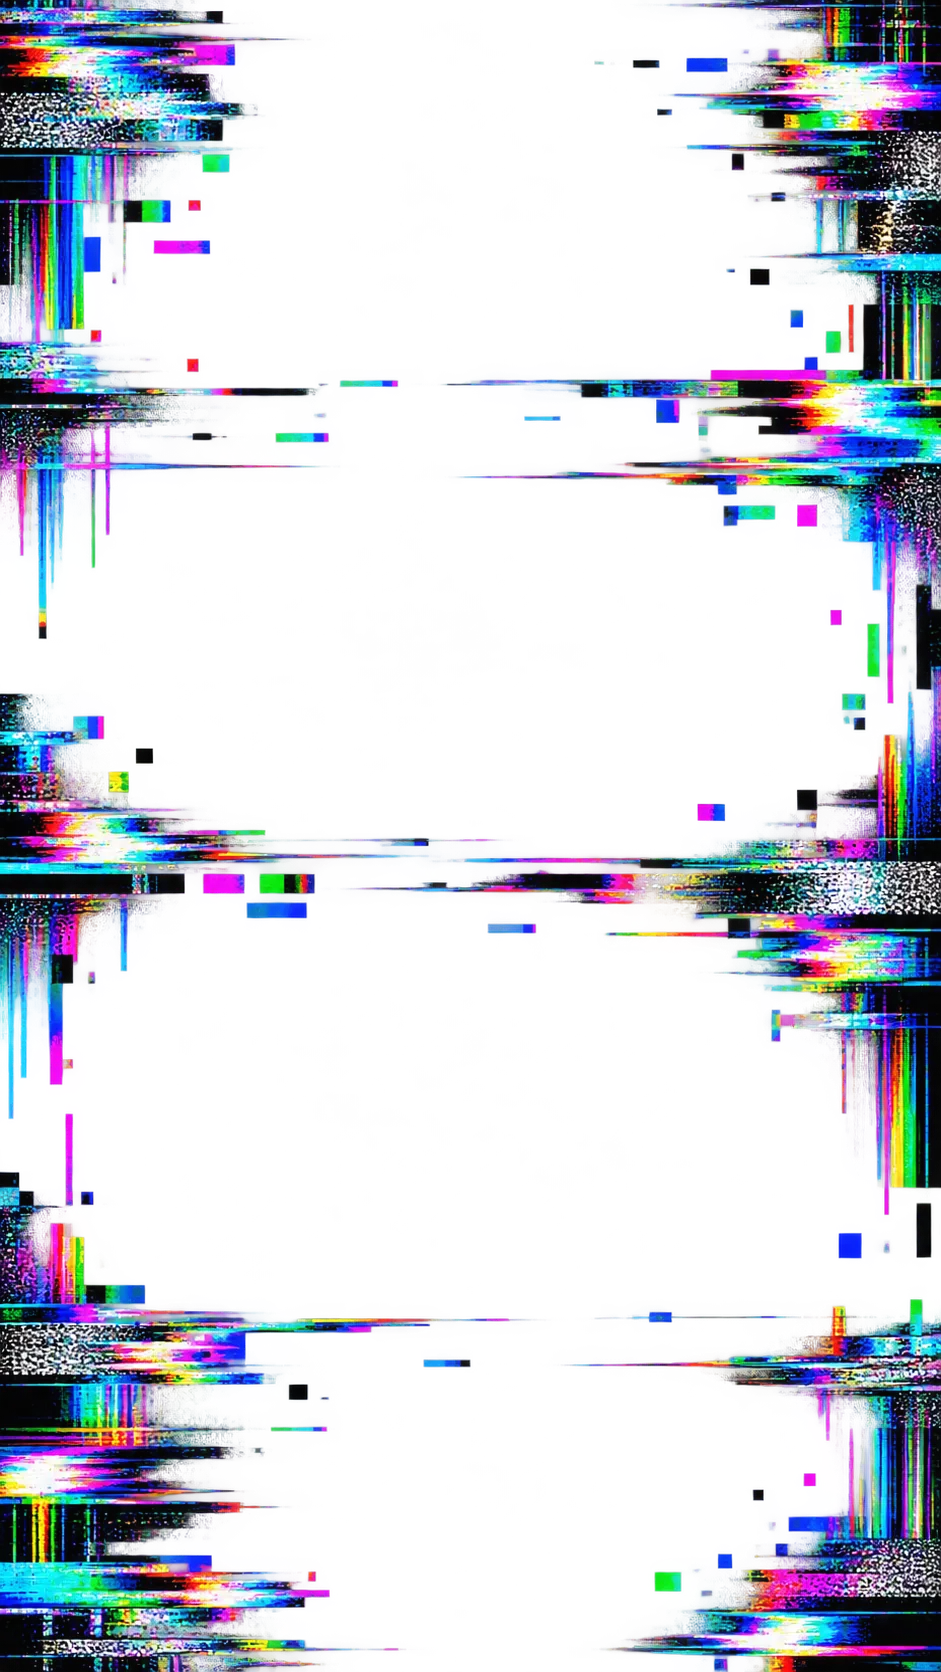
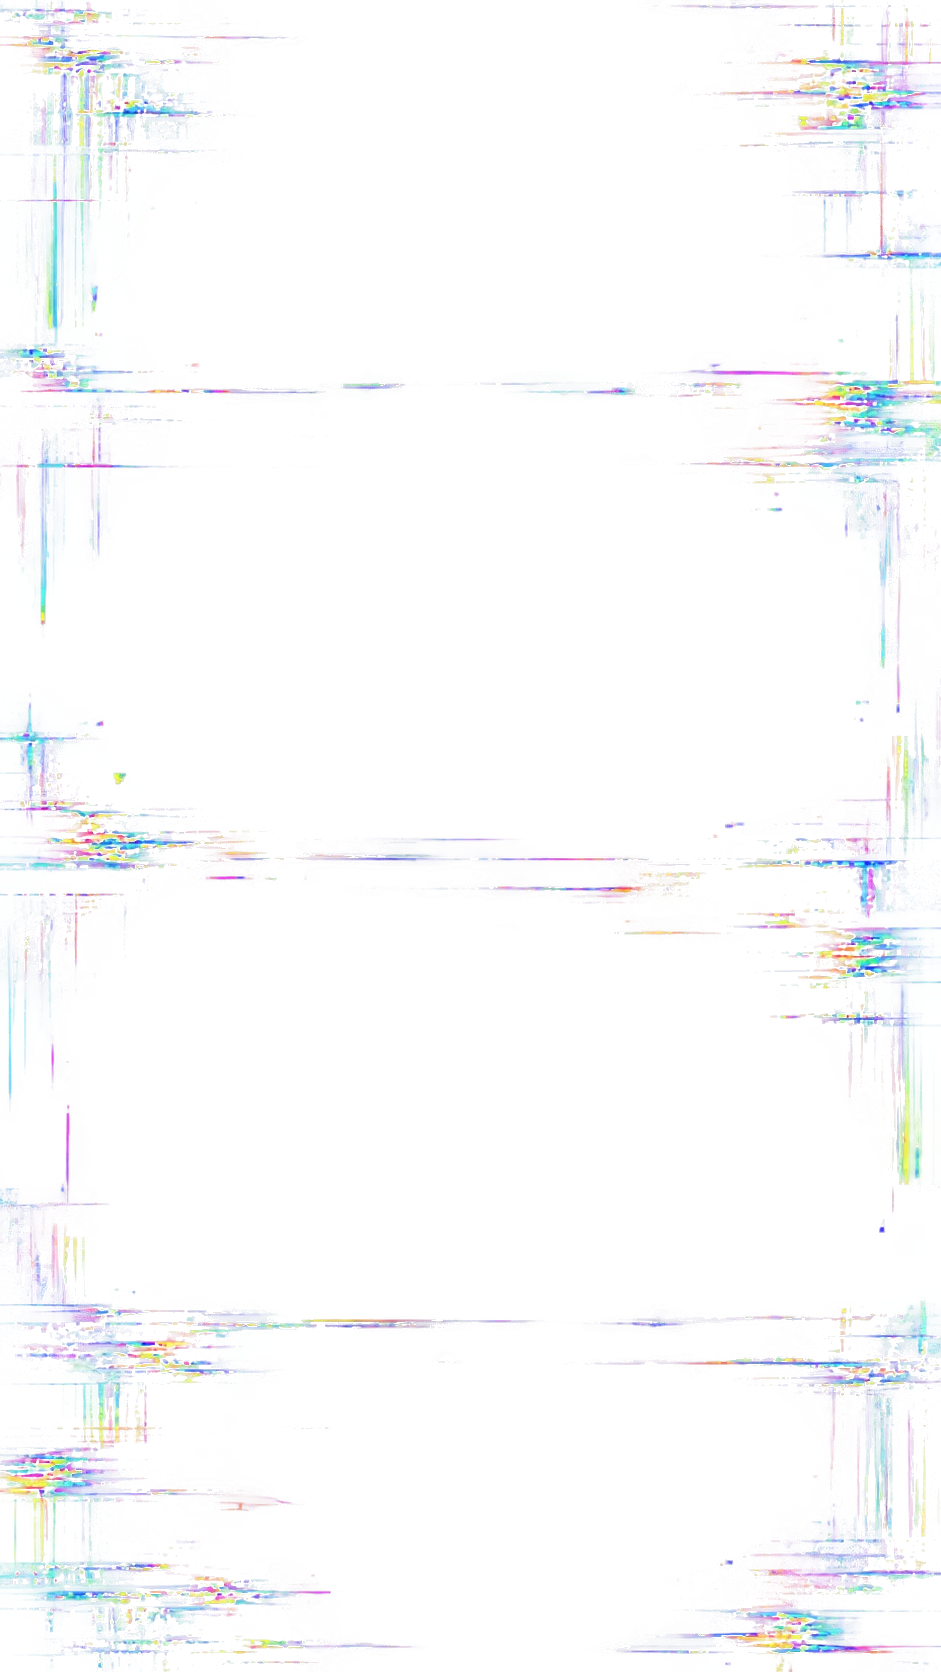
Complete English localization and refine color-line glitch art

diff --git a/app/MemoryRushGame.tsx b/app/MemoryRushGame.tsx
@@ -82,6 +82,40 @@ const getTendency = (stats: RunStats) => {
   if (stats.missed <= 2) return "记忆守门人";
   return "漂移旅行者";
 };
+const getTendencyEn = (stats: RunStats) => {
+  if (stats.echoed >= 4) return "ECHO COLLECTOR";
+  if (stats.dashes >= 4) return "ACTIVE FORGETTER";
+  if (stats.bumps >= 3) return "BUMP ARCHAEOLOGIST";
+  if (stats.missed <= 2) return "MEMORY KEEPER";
+  return "DRIFT TRAVELER";
+};
+
+const feedbackEn = (text: string) => {
+  if (text.startsWith("连续记住")) return text.replace("连续记住", "MEMORY CHAIN");
+  if (text.startsWith("进入 VERSION")) return text.replace("进入", "ENTERED").replace("场景记忆已重排", "SCENE MEMORY REORDERED");
+  const table: Record<string, string> = {
+    "过去的你会帮忙补捡": "YOUR PAST ECHO WILL CATCH MISSED PHOTOS",
+    "左右拖动接照片 · 轻点相框泡泡": "MOVE LEFT OR RIGHT · TAP FRAME BUBBLES",
+    "你主动丢掉一张记忆，换来短暂加速": "ONE MEMORY RELEASED · TEMPORARY DASH",
+    "带上新能力，追回剩下的夏天": "ABILITY EQUIPPED · CHASE THE REST OF SUMMER",
+    "残影替你接住了遗漏": "YOUR ECHO CAUGHT A MISSED PHOTO",
+    "照片已装入口袋": "PHOTO STORED IN YOUR POCKET",
+    "冲刺撞开了记忆柜": "DASH BROKE THROUGH THE MEMORY CART",
+    "记忆泡泡替你挡住一次碰撞": "MEMORY BUBBLE BLOCKED THE COLLISION",
+    "画面串线了！接泡泡能找回颜色": "SIGNAL CROSSED · CATCH A BUBBLE TO RESTORE COLOR",
+    "相框泡泡：照片 +1，颜色回来了": "FRAME BUBBLE · PHOTO +1 · COLOR RESTORED",
+    "旧磁带：下一段回声提前响起 · 连击 +2": "OLD TAPE · EARLY ECHO · CHAIN +2",
+    "褪色票根：一次带回 2 格记忆": "FADED TICKET · MEMORY +2",
+    "停摆时钟：展厅时间 +5 秒": "STOPPED CLOCK · TIME +5 SEC",
+    "冲刺穿过了坏掉的像素": "DASHED THROUGH CORRUPTED PIXELS",
+    "保护泡泡隔开了静电噪点": "COLOR SHELL BLOCKED SIGNAL NOISE",
+    "记忆被压缩坏了：物体暂时失去颜色": "MEMORY COMPRESSION ERROR · COLOR TEMPORARILY LOST",
+    "错过入口也没关系，再接一张就能重开": "RIFT MISSED · CATCH ONE MORE PHOTO TO REOPEN IT",
+    "漏掉的照片，下轮更容易再次出现": "MISSED PHOTO · MORE LIKELY TO RETURN NEXT RUN",
+    "啪！记忆 +1 · 恢复颜色 · 保护 +1": "POP · MEMORY +1 · COLOR RESTORED · SHIELD +1",
+  };
+  return table[text] ?? text;
+};
 
 const resolveImageUrl = (source: unknown) => typeof source === "string"
   ? source
@@ -211,6 +245,12 @@ export default function MemoryRushGame() {
   });
   const [feedback, setFeedback] = useState("过去的你会帮忙补捡");
   const [hud, setHud] = useState({ score: 0, combo: 0, memories: 0, version: "A" as "A" | "B" });
+  const shownFeedback = language === "zh" ? feedback : feedbackEn(feedback);
+
+  useEffect(() => {
+    document.documentElement.lang = language === "zh" ? "zh-CN" : "en";
+    document.title = language === "zh" ? "忘了自己是什么｜记忆漂移游戏" : "WHAT WAS I AGAIN? | MEMORY DRIFT GAME";
+  }, [language]);
 
   useEffect(() => {
     let live = true;
@@ -584,7 +624,8 @@ export default function MemoryRushGame() {
           ctx.fillStyle = band % 3 === 0 ? "#20e6d0" : band % 3 === 1 ? "#ff4f7d" : "#fff16c"; ctx.globalCompositeOperation = "screen"; ctx.fillRect(offset, sy, W, Math.max(2,bh*.16));
         }
         ctx.globalCompositeOperation = "source-over"; ctx.globalAlpha = strength * .75;
-        for (let strip = 0; strip < 9; strip++) { const x=(strip*149+Math.floor(now/120)*37)%W;ctx.fillStyle=strip%2?"#202631":"#f8fbef";ctx.fillRect(x,260,strip%3?3:11,1170); }
+        const signalColors = ["#20e6d0", "#3b8cff", "#ff3fb4", "#ff7658", "#f7dc55", "#9a6cff"];
+        for (let strip = 0; strip < 15; strip++) { const x=(strip*83+Math.floor(now/90)*29)%W;ctx.fillStyle=signalColors[strip%signalColors.length];ctx.globalAlpha=strength*(.45+(strip%3)*.18);ctx.fillRect(x,230+(strip%5)*36,strip%4===0?4:2,1050-(strip%4)*90); }
         ctx.restore();
       }
       frame = requestAnimationFrame(tick);
@@ -600,21 +641,21 @@ export default function MemoryRushGame() {
     g.addColorStop(0, "#5ee0ff"); g.addColorStop(.48, "#fff0a8"); g.addColorStop(1, "#ff8c67"); c.fillStyle = g; c.fillRect(0, 0, 1080, 1440);
     c.fillStyle = "rgba(255,255,255,.84)"; c.roundRect(75, 80, 930, 1280, 52); c.fill(); c.fillStyle = "#173755";
     c.font = "800 34px sans-serif"; c.fillText(`MEMORY JOURNEY · RUN ${String(record.run).padStart(2,"0")}`, 130, 160);
-    c.font = "900 76px sans-serif"; c.fillText("忘了自己是什么", 130, 280); c.font = "700 38px sans-serif"; c.fillStyle = "#ef704f"; c.fillText(record.tendency, 130, 360);
+    c.font = "900 76px sans-serif"; c.fillText(tr("忘了自己是什么", "WHAT WAS I AGAIN?"), 130, 280); c.font = "700 38px sans-serif"; c.fillStyle = "#ef704f"; c.fillText(language === "zh" ? record.tendency : getTendencyEn(record), 130, 360);
     c.fillStyle = "#173755"; c.font = "800 42px sans-serif";
-    [["SCORE",record.score],["记住",record.caught],["残影补捡",record.echoed],["遗漏",record.missed],["碰撞",record.bumps],["主动遗忘",record.dashes]].forEach(([label,value],i)=>c.fillText(`${label}  ${value}`,130,500+i*105));
-    c.font = "800 38px sans-serif"; c.fillText(`CURRENT VERSION  ${record.version}`,130,1190); c.font = "600 28px sans-serif"; c.fillText("下一次奔跑会继承这一次留下的偏差。",130,1270);
+    [["SCORE",record.score],[tr("记住","CAUGHT"),record.caught],[tr("残影补捡","ECHO CATCH"),record.echoed],[tr("遗漏","MISSED"),record.missed],[tr("碰撞","COLLISIONS"),record.bumps],[tr("主动遗忘","RELEASED"),record.dashes]].forEach(([label,value],i)=>c.fillText(`${label}  ${value}`,130,500+i*105));
+    c.font = "800 38px sans-serif"; c.fillText(`CURRENT VERSION  ${record.version}`,130,1190); c.font = "600 28px sans-serif"; c.fillText(tr("下一次奔跑会继承这一次留下的偏差。", "THE NEXT RUN WILL INHERIT THIS DRIFT."),130,1270);
     const a = document.createElement("a"); a.download = `memory-journey-${record.run}.png`; a.href = card.toDataURL("image/png"); a.click();
-  }, [record]);
+  }, [record, language, tr]);
 
   const shareCard = useCallback(async () => {
     if (!record) return;
-    const text = `我的记忆身份：${record.tendency}｜${record.score} 分｜Version ${record.version}`;
+    const text = language === "zh" ? `我的记忆身份：${record.tendency}｜${record.score} 分｜Version ${record.version}` : `MY MEMORY IDENTITY: ${getTendencyEn(record)} | ${record.score} POINTS | VERSION ${record.version}`;
     try {
-      if (navigator.share) await navigator.share({ title: "忘了自己是什么", text, url: location.href });
-      else { await navigator.clipboard.writeText(`${text} ${location.href}`); setShareMessage("结算文字和网址已复制"); }
-    } catch { setShareMessage("分享未完成，可以用保存记忆卡下载图片。"); }
-  }, [record]);
+      if (navigator.share) await navigator.share({ title: tr("忘了自己是什么", "WHAT WAS I AGAIN?"), text, url: location.href });
+      else { await navigator.clipboard.writeText(`${text} ${location.href}`); setShareMessage(tr("结算文字和网址已复制", "RESULT AND LINK COPIED")); }
+    } catch { setShareMessage(tr("分享未完成，可以用保存记忆卡下载图片。", "SHARE NOT COMPLETED · SAVE THE MEMORY CARD INSTEAD")); }
+  }, [record, language, tr]);
 
   const pauseGame = useCallback(() => {
     const r = runtimeRef.current;
@@ -642,7 +683,7 @@ export default function MemoryRushGame() {
 
   return (
     <main className="rush-page">
-      <section className="rush-game" aria-label="记忆与遗忘竖屏游戏">
+      <section className="rush-game" data-lang={language} aria-label={tr("记忆与遗忘竖屏游戏", "Vertical game about memory and forgetting")}>
         <canvas
           ref={canvasRef}
           width={W}
@@ -680,20 +721,20 @@ export default function MemoryRushGame() {
         </button>}
         {started && <><div className="combo-pill" data-active={hud.combo > 1}>{hud.combo > 1 ? `×${hud.combo} ${tr("记忆连击", "MEMORY CHAIN")}` : tr("接住漂走的照片", "CATCH THE DRIFTING PHOTOS")}</div>
           <div className="rush-journey"><span>{seconds > 34 ? tr("01 / 找回颜色", "01 / FIND COLOR") : seconds > 16 ? tr("02 / 过去的帮手", "02 / PAST ECHOES") : tr("03 / 追回夏天", "03 / CHASE SUMMER")}</span><strong>{seconds}s</strong><progress max={52} value={52-seconds} aria-label={tr("旅程进度", "Journey progress")} /></div>
-          <div className="rush-feedback" data-fault={feedback.includes("串线") || feedback.includes("压缩坏了")} role="status">{feedback}</div>
-          <div className="pickup-legend" aria-label="可收集物提示"><span>▣ 照片</span><span>▤ 磁带</span><span>⌁ 票根</span><span>◷ 加时</span><span className="danger">▥ 坏像素</span></div></>}
+          <div className="rush-feedback" data-fault={feedback.includes("串线") || feedback.includes("压缩坏了")} role="status">{shownFeedback}</div>
+          <div className="pickup-legend" aria-label={tr("可收集物提示", "Collectible guide")}><span>▣ {tr("照片", "PHOTO")}</span><span>▤ {tr("磁带", "TAPE")}</span><span>⌁ {tr("票根", "TICKET")}</span><span>◷ {tr("加时", "TIME")}</span><span className="danger">▥ {tr("坏像素", "BAD PIXEL")}</span></div></>}
 
         {awake && !started && !record && <div className="rush-intro">
           <span>{intro === 0 ? tr("展览终点 · 一次约一分钟的记忆旅行", "EXHIBITION EXIT · A ONE-MINUTE MEMORY RUN") : `MEMORY INPUT 0${intro} / 03`}</span>
           <h1>{intro === 0 ? tr("忘了自己是什么", "WHAT WAS I AGAIN?") : intro === 1 ? tr("你把记忆放在哪里？", "WHERE DO YOU KEEP A MEMORY?") : intro === 2 ? (language === "zh" ? sourceCopy[memorySource].title : memorySource === "phone" ? "EXTENDED MEMORY" : memorySource === "search" ? "THE GOOGLE EFFECT" : "FALSE MEMORY") : tr("接住正在逃跑的记忆", "CATCH THE MEMORIES ESCAPING")}</h1>
-          {intro !== 1 && <div className={`intro-photo intro-photo-${intro}`}><img src={resolveImageUrl(photoUrl)} alt="通往夏日乐园的旧照片" /><i /></div>}
-          {intro === 1 && <div className="memory-source-grid" role="group" aria-label="选择本局记忆来源">
+          {intro !== 1 && <div className={`intro-photo intro-photo-${intro}`}><img src={resolveImageUrl(photoUrl)} alt={tr("通往夏日乐园的旧照片", "Old photograph of a road to the summer park")} /><i /></div>}
+          {intro === 1 && <div className="memory-source-grid" role="group" aria-label={tr("选择本局记忆来源", "Choose this run's memory source")}>
             {(Object.keys(sourceCopy) as MemorySource[]).map((source) => <button key={source} data-selected={memorySource === source} onClick={() => { unlockAudio(); setMemorySource(source); chime(source === "phone" ? 620 : source === "search" ? 780 : 940, .12); }}><strong>{language === "zh" ? sourceCopy[source].label : source === "phone" ? "PHONE" : source === "search" ? "SEARCH" : "MYSELF"}</strong><span>{language === "zh" ? sourceCopy[source].title : source === "phone" ? "Extended Memory" : source === "search" ? "Google Effect" : "False Memory"}</span></button>)}
           </div>}
           <p>{intro === 0 ? tr("前面的展览讨论了数字失忆、谷歌效应与被反复改写的回忆。这里不再给你结论——把一段记忆投进系统，看看它在追逐中变成什么。", "The exhibition traced digital amnesia, the Google effect, and memories rewritten through repetition. Here, there is no final answer. Feed one memory into the system and watch what the chase turns it into.") : intro === 1 ? tr("手机可以成为大脑的延伸，搜索让答案随时可得，而回想本身也会重构过去。选择一个入口，系统会据此生成这一局的偏差。", "A phone can extend the mind. Search keeps answers close. Recalling a moment also rebuilds it. Choose an entry point; the system will generate this run's drift from it.") : intro === 2 ? tr(sourceCopy[memorySource].text + " 现在，照片里的窗户和颜色开始漂移。", memorySource === "phone" ? "Your phone kept the time and place, but not how the moment felt. Now the window and colors in the photo begin to drift." : memorySource === "search" ? "You remember that an answer can be found, so you remember where to look instead. Now the image begins to drift." : "Every recollection edits the memory again. Certainty is not the same as truth. Now the image begins to drift.") : tr("照片、相框泡泡、磁带、票根和停摆时钟都能收集；坏像素和小车会打乱画面。漏掉不是失败，它会改变下一轮出现的东西。", "Collect photos, frame bubbles, tapes, tickets and stopped clocks. Broken pixels and carts scramble the image. Missing an item is not failure; it changes what returns next.")}</p>
-          {previous && intro === 0 && <div className="previous-memory"><b>最高 {best} 分</b><span>相册 {album.length}/6 · 上次留下了 {previous.caught} 张照片</span></div>}
+          {previous && intro === 0 && <div className="previous-memory"><b>{tr(`最高 ${best} 分`, `BEST ${best}`)}</b><span>{tr(`相册 ${album.length}/6 · 上次留下了 ${previous.caught} 张照片`, `ALBUM ${album.length}/6 · LAST RUN ${previous.caught} PHOTOS`)}</span></div>}
           <button disabled={!ready} onClick={advanceIntro}>{loadError ? tr("素材加载失败，请刷新页面", "ASSET LOAD FAILED · REFRESH") : !ready ? tr("正在装载记忆…", "LOADING MEMORY…") : intro === 0 ? tr("读取前一段展览", "READ THE EXHIBITION TRACE") : intro === 1 ? tr("生成我的记忆版本", "GENERATE MY MEMORY") : intro === 2 ? tr("看看哪里变了", "SEE WHAT CHANGED") : tr("进入街道 · 找回 12 张照片", "ENTER THE STREET · FIND 12 PHOTOS")}</button>
-          {loadError && <button onClick={() => location.reload()}>重新加载</button>}
+          {loadError && <button onClick={() => location.reload()}>{tr("重新加载", "RELOAD")}</button>}
           <small>{intro === 3 ? (lastDevice === "gamepad" ? tr("摇杆移动 · 任意动作按钮冲刺 · START 暂停", "STICK MOVE · ACTION DASH · START PAUSE") : lastDevice === "keyboard" ? tr("方向键 / A D / J L 移动 · 空格 / Z / X 冲刺", "ARROWS / A D / J L MOVE · SPACE / Z / X DASH") : tr("拖动移动 · 点泡泡 · 点击冲刺", "DRAG TO MOVE · TAP BUBBLES · TAP DASH")) : tr("点击、回车或街机按钮继续", "CLICK · ENTER · OR ARCADE BUTTON")}</small>
           {previous && <button className="rush-skip" disabled={!ready} onClick={begin}>{tr("跳过故事，直接出发", "SKIP STORY · START RUN")}</button>}
         </div>}
@@ -707,20 +748,22 @@ export default function MemoryRushGame() {
         </section>}
 
         {started && <button className="forget-dash" disabled={hud.memories < 1} onClick={dash}>
-          <span>遗忘 1 张</span><strong>冲刺</strong>
+          <span>{tr("遗忘 1 张", "RELEASE 1")}</span><strong>{tr("冲刺", "DASH")}</strong>
         </button>}
 
-        {record && <section className="memory-result" aria-label="本局记忆旅程卡">
+        {record && <section className="memory-result" aria-label={tr("本局记忆旅程卡", "Memory journey result card")}>
           <div className="result-kicker">MEMORY JOURNEY · RUN {String(record.run).padStart(2,"0")}</div>
-          <h2>{language === "zh" ? record.tendency : record.echoed >= 4 ? "ECHO COLLECTOR" : record.dashes >= 4 ? "ACTIVE FORGETTER" : record.bumps >= 3 ? "BUMP ARCHAEOLOGIST" : record.missed <= 2 ? "MEMORY KEEPER" : "DRIFT TRAVELER"}</h2>
+          <h2>{language === "zh" ? record.tendency : getTendencyEn(record)}</h2>
           <p>{record.caught >= 12 ? tr("12 张照片目标达成！这段夏天又清晰了一点。", "12-photo goal complete. This summer is a little clearer.") : tr(`带回了 ${record.caught} 张照片，再找 ${12-record.caught} 张就能达成收藏目标。`, `${record.caught} photos returned. Find ${12-record.caught} more to complete the collection.`)}</p>
           <div className="result-score"><span>SCORE</span><strong>{record.score}</strong><i>VERSION {record.version}</i></div>
           <dl>
-            <div><dt>记住</dt><dd>{record.caught}</dd></div><div><dt>残影补捡</dt><dd>{record.echoed}</dd></div>
-            <div><dt>遗漏</dt><dd>{record.missed}</dd></div><div><dt>碰撞</dt><dd>{record.bumps}</dd></div>
-            <div><dt>主动遗忘</dt><dd>{record.dashes}</dd></div><div><dt>最高连击</dt><dd>×{record.maxCombo}</dd></div>
+            <div><dt>{tr("记住", "CAUGHT")}</dt><dd>{record.caught}</dd></div><div><dt>{tr("残影补捡", "ECHO CATCH")}</dt><dd>{record.echoed}</dd></div>
+            <div><dt>{tr("遗漏", "MISSED")}</dt><dd>{record.missed}</dd></div><div><dt>{tr("碰撞", "COLLISIONS")}</dt><dd>{record.bumps}</dd></div>
+            <div><dt>{tr("主动遗忘", "RELEASED")}</dt><dd>{record.dashes}</dd></div><div><dt>{tr("最高连击", "BEST CHAIN")}</dt><dd>×{record.maxCombo}</dd></div>
           </dl>
-          <div className="result-note">本局入口：{sourceCopy[record.source ?? "phone"].label} · 个人最佳 {best} 分 · 夏日相册 {album.length}/6<br />{["第一张回忆", "满载而归", "过去的帮手", "轻装上路", "另一个夏天", "连成一段"].map(name => <span className="album-stamp" key={name} data-earned={album.includes(name)}>{album.includes(name) ? "✓ " : "○ "}{name}</span>)}<br />下个目标：{!album.includes("满载而归") ? "单局找回 12 张照片" : !album.includes("过去的帮手") ? "让残影补捡 3 张照片" : !album.includes("轻装上路") ? "使用 3 次遗忘冲刺" : !album.includes("另一个夏天") ? "穿过一次记忆裂隙" : "挑战 5 连击与个人最佳"}</div>
+          <div className="result-note">{language === "zh" ? <>本局入口：{sourceCopy[record.source ?? "phone"].label} · 个人最佳 {best} 分 · 夏日相册 {album.length}/6</> : <>ENTRY: {(record.source ?? "phone").toUpperCase()} · PERSONAL BEST {best} · SUMMER ALBUM {album.length}/6</>}<br />
+            {["第一张回忆", "满载而归", "过去的帮手", "轻装上路", "另一个夏天", "连成一段"].map((name,index) => <span className="album-stamp" key={name} data-earned={album.includes(name)}>{album.includes(name) ? "✓ " : "○ "}{language === "zh" ? name : ["FIRST MEMORY","FULL RETURN","PAST HELPER","TRAVEL LIGHT","ANOTHER SUMMER","ONE THREAD"][index]}</span>)}<br />
+            {tr("下个目标：", "NEXT TARGET: ")}{!album.includes("满载而归") ? tr("单局找回 12 张照片", "CATCH 12 PHOTOS IN ONE RUN") : !album.includes("过去的帮手") ? tr("让残影补捡 3 张照片", "LET ECHOES CATCH 3 PHOTOS") : !album.includes("轻装上路") ? tr("使用 3 次遗忘冲刺", "USE MEMORY DASH 3 TIMES") : !album.includes("另一个夏天") ? tr("穿过一次记忆裂隙", "PASS THROUGH A MEMORY RIFT") : tr("挑战 5 连击与个人最佳", "REACH A 5-CHAIN AND BEAT YOUR BEST")}</div>
           <p role="status">{shareMessage}</p>
           <div className="result-actions"><button onClick={saveCard}>{tr("保存记忆卡", "SAVE MEMORY CARD")}</button><button onClick={shareCard}>{tr("分享结果", "SHARE RESULT")}</button></div>
           <button className="replay-memory" onClick={begin}>{tr("带着这段记忆再跑一次", "RUN AGAIN WITH THIS MEMORY")}</button>

diff --git a/app/globals.css b/app/globals.css
@@ -322,7 +322,7 @@ body { font-family:"Arial Rounded MT Bold","PingFang SC","Microsoft YaHei",syste
 }
 .dormant-screen::before {
   content:""; position:absolute; inset:0; pointer-events:none;
-  background:repeating-linear-gradient(180deg,rgba(255,255,255,.025) 0 1px,transparent 1px 5px),
+  background:repeating-linear-gradient(180deg,rgba(32,230,208,.035) 0 1px,transparent 1px 5px),
     linear-gradient(90deg,transparent 0 17%,rgba(40,230,220,.07) 17% 17.4%,transparent 17.4% 82%,rgba(255,71,118,.07) 82% 82.5%,transparent 82.5%);
 }
 .dormant-code { position:absolute; top:5%; left:5%; color:#88e8e4; font-size:clamp(9px,1.9cqw,13px); letter-spacing:.18em; }
@@ -347,6 +347,23 @@ body { font-family:"Arial Rounded MT Bold","PingFang SC","Microsoft YaHei",syste
 }
 
 @media (prefers-reduced-motion:reduce) { .dormant-mark i { animation:none; } }
+
+/* Language-specific editorial typography. Uses installed system faces for offline exhibitions. */
+.rush-game[data-lang="en"] { font-family:"Bahnschrift Condensed","Arial Narrow","Aptos Narrow",sans-serif; }
+.rush-game[data-lang="en"] .rush-title span,
+.rush-game[data-lang="en"] .result-kicker,
+.rush-game[data-lang="en"] .dormant-code,
+.rush-game[data-lang="en"] .rush-journey,
+.rush-game[data-lang="en"] .pickup-legend { font-family:"Cascadia Mono","Lucida Console",monospace; letter-spacing:.13em; }
+.rush-game[data-lang="en"] .rush-intro h1,
+.rush-game[data-lang="en"] .memory-result h2,
+.rush-game[data-lang="en"] .dormant-screen strong {
+  font-family:"Bahnschrift Condensed","Arial Narrow",sans-serif; font-stretch:condensed;
+  font-style:italic; letter-spacing:-.035em; text-transform:uppercase;
+}
+.rush-game[data-lang="en"] .memory-result h2 { font-size:clamp(28px,7.2cqw,50px); line-height:.9; }
+.rush-game[data-lang="en"] button { font-family:"Bahnschrift Condensed","Arial Narrow",sans-serif; letter-spacing:.025em; }
+.rush-game[data-lang="en"] .result-note,.rush-game[data-lang="en"] .memory-result dt { letter-spacing:.025em; }
 
 /* Memory Rush vertical action prototype */
 .rush-page { min-height:100dvh; display:grid; place-items:center; overflow:hidden; background:#153f67; }
